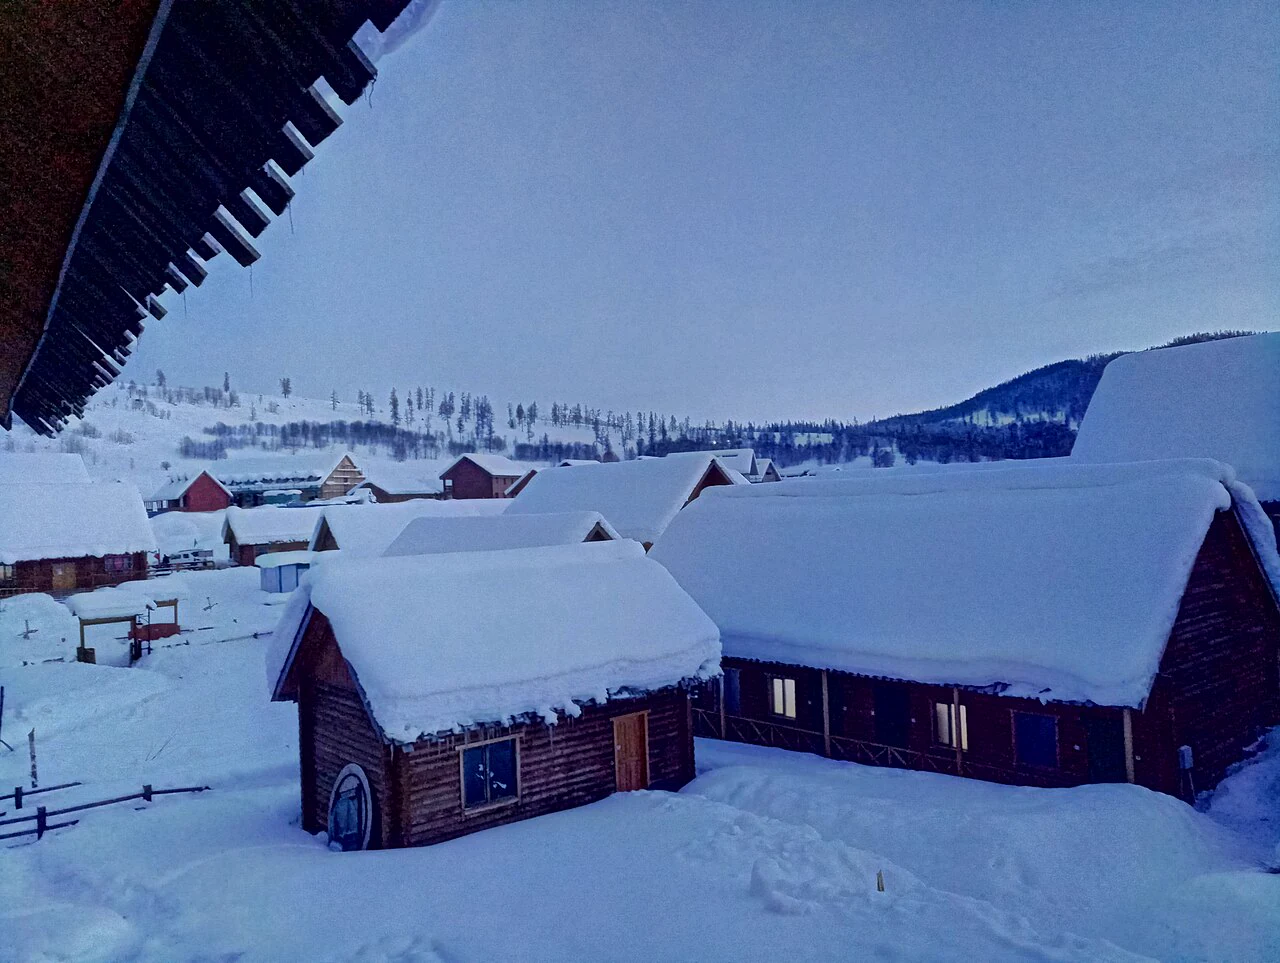
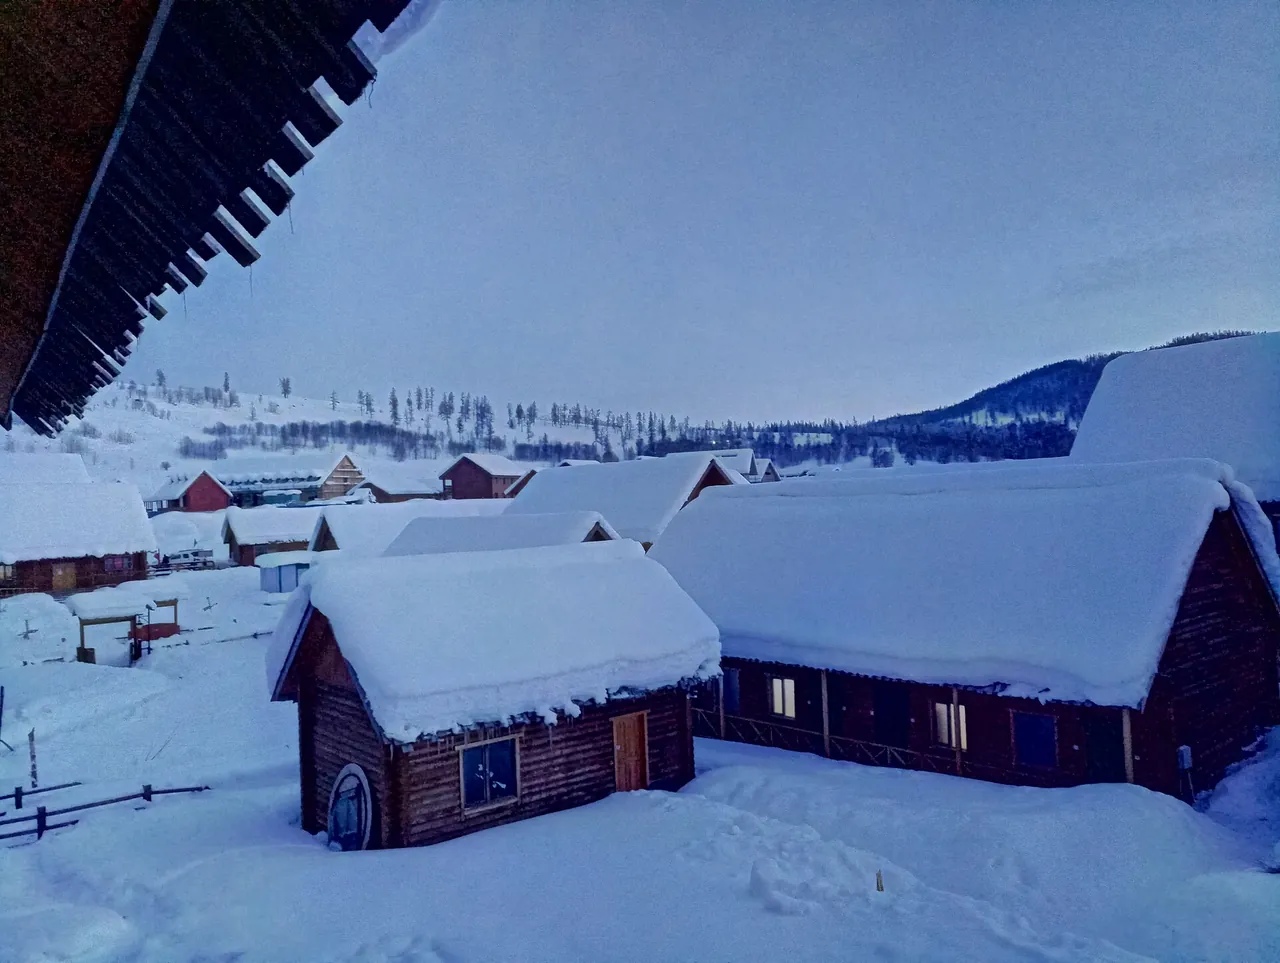
perf: compress homepage hero webp assets

diff --git a/apps/web/src/data/assets.test.ts b/apps/web/src/data/assets.test.ts
@@ -39,7 +39,10 @@ test("keeps Commons hero photo sources and credits while serving local responsiv
       `/hero/${photo.stem}-768.webp 768w, /hero/${photo.stem}-1280.webp 1280w`,
     );
 
-    for (const [width, maxBytes] of [[768, 130_000], [1280, 400_000]] as const) {
+    for (const [width, maxBytes] of [
+      [768, 130_000],
+      [1280, 300_000],
+    ] as const) {
       const imagePath = new URL(`../../public/hero/${photo.stem}-${width}.webp`, import.meta.url);
       const bytes = readFileSync(imagePath);
       assert.ok(statSync(imagePath).size < maxBytes, `${photo.stem}-${width}.webp should stay bounded`);

diff --git a/docs/图片加载性能优化记录.md b/docs/图片加载性能优化记录.md
@@ -2,6 +2,8 @@
 
 更新时间：2026-09-30
 
+同日重新编码首页四张公开授权摄影图的本地 1280px WebP 衍生图：从保留的 Wikimedia Commons 原始 1920px JPEG 重新生成，Sharp quality 80、effort 6。将军山 1280×960 从 353,644 降至 249,802 字节（约 29.4%）；阿勒泰 picture3 1280×960 从 162,926 降至 100,398（约 38.4%）；禾木 picture10 1280×963 从 199,758 降至 93,788（约 53.1%）；阿勒泰 picture1 1280×960 从 82,368 降至 34,114（约 58.6%）。总计减少 320,594 字节，约 40.1%。逐张并排检查，未见明显细节、色调或构图损失；所有输出像素尺寸保持与旧衍生图一致。原始来源 URL、署名和授权信息、外链回退、768px 版本均未改变。回归测试将四张 1280px 衍生图的单文件上限统一收紧到 300,000 字节。数据来自本地 Sharp WebP 编码和静态文件检查，不代表线上请求字节或 LCP 已验证。
+
 ## 当前策略
 
 - 首页雪场图使用 1920px 公开摄影素材，保留随机展示、原有构图尺寸与读取进度动画。
